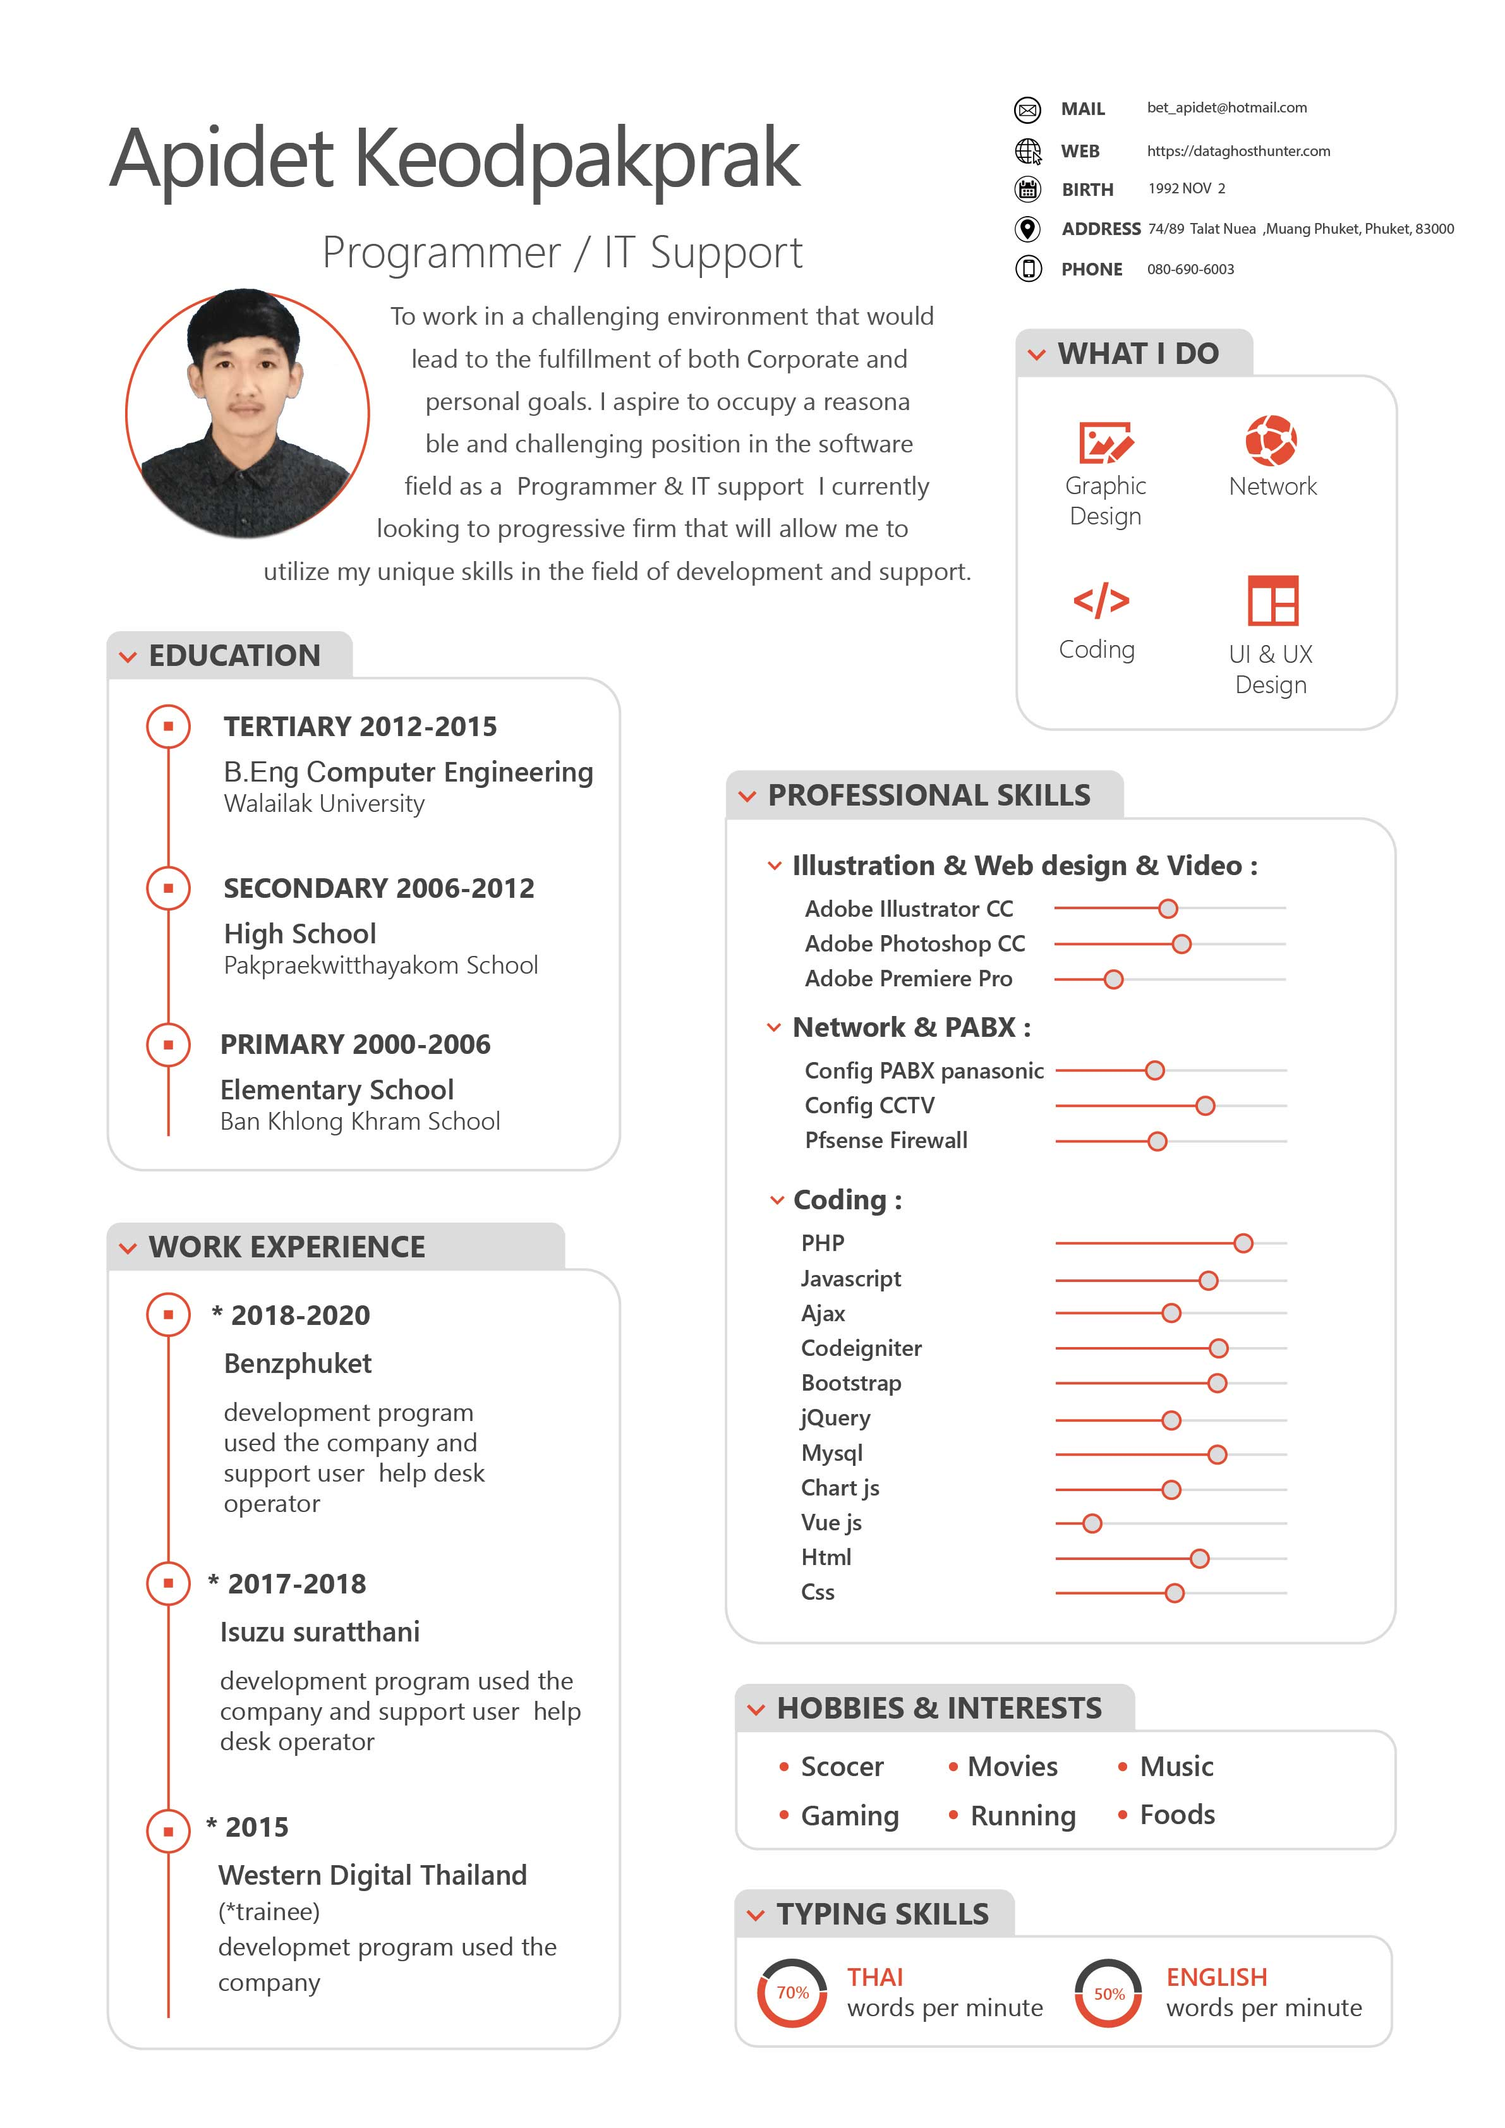
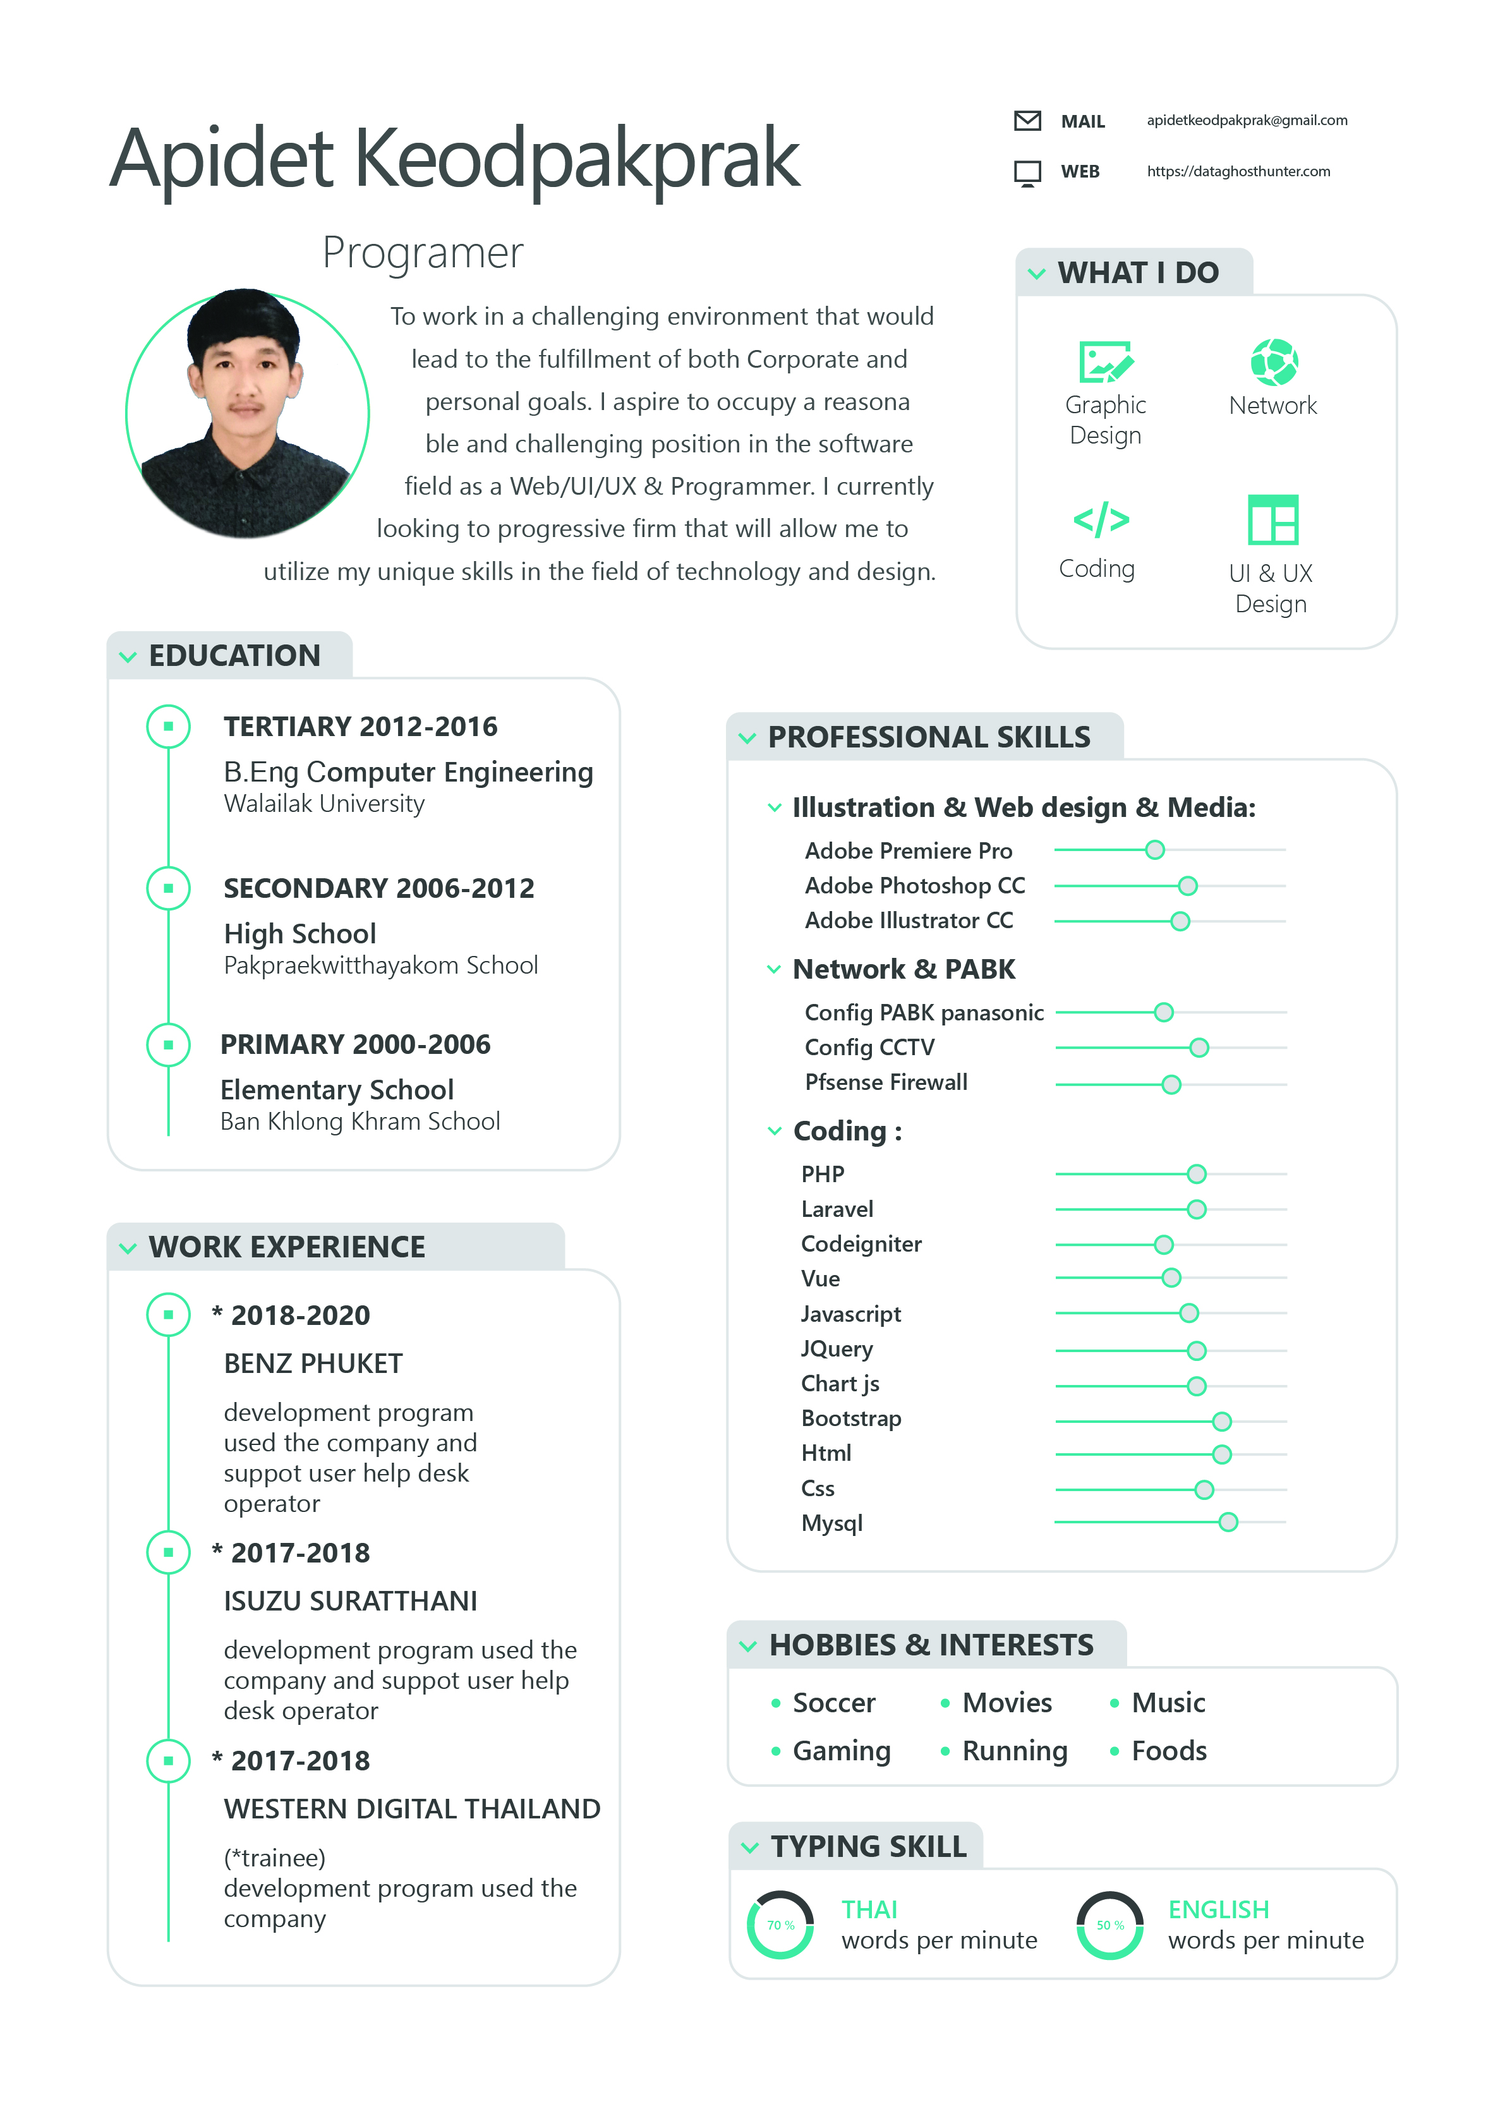
initial commit

diff --git a/public/js/app.js b/public/js/app.js
@@ -40053,9 +40053,9 @@ var staticRenderFns = [
           _vm._v("รายละเอียดด้านการพัฒนา")
         ]),
         _vm._v(" "),
-        _c("p", [_vm._v("1. Bootstrap 4")]),
+        _c("p", [_vm._v("1. Codeigniter")]),
         _vm._v(" "),
-        _c("p", [_vm._v("2. Codeigniter")]),
+        _c("p", [_vm._v("2. Bootstrap 4")]),
         _vm._v(" "),
         _c("p", [_vm._v("3. jQuery")]),
         _vm._v(" "),
@@ -40388,9 +40388,9 @@ var staticRenderFns = [
           _vm._v("รายละเอียดด้านการพัฒนา")
         ]),
         _vm._v(" "),
-        _c("p", [_vm._v("1. Bootstrap 4")]),
+        _c("p", [_vm._v("1. Codeigniter")]),
         _vm._v(" "),
-        _c("p", [_vm._v("2. Codeigniter")]),
+        _c("p", [_vm._v("2. Bootstrap 4")]),
         _vm._v(" "),
         _c("p", [_vm._v("3. jQuery")]),
         _vm._v(" "),
@@ -40687,28 +40687,26 @@ var staticRenderFns = [
         _c("h2", { staticClass: "mb-3 mt-5" }, [_vm._v("ความสามารถของระบบ")]),
         _vm._v(" "),
         _c("p", [
-          _vm._v("1. ระบบสร้างโปรเจค เก็บรายเเยกรายการ hardware/software")
+          _vm._v("1. ระบบ มีหน้าร้านขายออนไลน์ เเละระบบหลังร้านจัดการสินค้า")
         ]),
         _vm._v(" "),
-        _c("p", [
-          _vm._v("2. ระบบ ค้นหารายละเอียดโปรเจค เเละ  hardware/software ")
-        ]),
+        _c("p", [_vm._v("2. ระบบ มีการตัดสต๊อก เเละคืนสต๊อกสินค้า ")]),
         _vm._v(" "),
-        _c("p", [_vm._v("3. ระบบจัดการ  hardware/software")]),
+        _c("p", [_vm._v("3. ระบบ มีกานเเสดงสถานะสินค้า")]),
         _vm._v(" "),
-        _c("p", [_vm._v("4. ระบบจัดการ ลูกค้า")]),
+        _c("p", [_vm._v("4. ระบบ ติตาตการส่งสินค้า Tracking")]),
         _vm._v(" "),
-        _c("p", [_vm._v("5. ระบบจัดการผู้ใช้งาน")]),
+        _c("p", [_vm._v("5. ระบบ ตัดบัตรเครดิต")]),
         _vm._v(" "),
-        _c("p", [_vm._v("6. รายงานสรุป โปรเจค  hardware/software ")]),
+        _c("p", [_vm._v("6. รายงาน สรุปยอดขาย รายเดือน/ปี")]),
         _vm._v(" "),
         _c("h2", { staticClass: "mb-3 mt-5" }, [
           _vm._v("รายละเอียดด้านการพัฒนา")
         ]),
         _vm._v(" "),
-        _c("p", [_vm._v("1. Bootstrap 4")]),
+        _c("p", [_vm._v("1. Laravel+Vue")]),
         _vm._v(" "),
-        _c("p", [_vm._v("2. Laravel+Vue")]),
+        _c("p", [_vm._v("2. Bootstrap 4")]),
         _vm._v(" "),
         _c("p", [_vm._v("3. jQuery")]),
         _vm._v(" "),

diff --git a/resources/js/components/Shop.vue b/resources/js/components/Shop.vue
@@ -31,16 +31,16 @@
 
         <div class="ftco-animate">
           <h2 class="mb-3 mt-5">ความสามารถของระบบ</h2>
-          <p>1. ระบบสร้างโปรเจค เก็บรายเเยกรายการ hardware/software</p>
-          <p>2. ระบบ ค้นหารายละเอียดโปรเจค เเละ  hardware/software </p>
-          <p>3. ระบบจัดการ  hardware/software</p>
-          <p>4. ระบบจัดการ ลูกค้า</p>
-          <p>5. ระบบจัดการผู้ใช้งาน</p>
-          <p>6. รายงานสรุป โปรเจค  hardware/software </p>
+          <p>1. ระบบ มีหน้าร้านขายออนไลน์ เเละระบบหลังร้านจัดการสินค้า</p>
+          <p>2. ระบบ มีการตัดสต๊อก เเละคืนสต๊อกสินค้า </p>
+          <p>3. ระบบ มีกานเเสดงสถานะสินค้า</p>
+          <p>4. ระบบ ติตาตการส่งสินค้า Tracking</p>
+          <p>5. ระบบ ตัดบัตรเครดิต</p>
+          <p>6. รายงาน สรุปยอดขาย รายเดือน/ปี</p>
 
           <h2 class="mb-3 mt-5">รายละเอียดด้านการพัฒนา</h2>
-          <p>1. Bootstrap 4</p>
-          <p>2. Laravel+Vue</p>
+          <p>1. Laravel+Vue</p>
+          <p>2. Bootstrap 4</p>
           <p>3. jQuery</p>
           <p>4. javascript</p>
           <p>5. Mysql</p>

diff --git a/resources/js/components/Clocktime.vue b/resources/js/components/Clocktime.vue
@@ -41,8 +41,8 @@
           <p>7. ระบบจัดการ LIFT /SA/ช่าง</p>
 
           <h2 class="mb-3 mt-5">รายละเอียดด้านการพัฒนา</h2>
-          <p>1. Bootstrap 4</p>
-          <p>2. Codeigniter</p>
+          <p>1. Codeigniter</p>
+          <p>2. Bootstrap 4</p>
           <p>3. jQuery</p>
           <p>4. javascript</p>
           <p>5. Mysql</p>

diff --git a/resources/js/components/Savedata.vue b/resources/js/components/Savedata.vue
@@ -39,8 +39,8 @@
           <p>6. รายงานสรุป โปรเจค  hardware/software </p>
 
           <h2 class="mb-3 mt-5">รายละเอียดด้านการพัฒนา</h2>
-          <p>1. Bootstrap 4</p>
-          <p>2. Codeigniter</p>
+          <p>1. Codeigniter</p>
+          <p>2. Bootstrap 4</p>
           <p>3. jQuery</p>
           <p>4. javascript</p>
 

diff --git a/resources/views/partials/footer.blade.php b/resources/views/partials/footer.blade.php
@@ -4,7 +4,7 @@
             <div class="col-md">
                 <div class="ftco-footer-widget mb-4">
                     <h2 class="ftco-heading-2">Lets talk about</h2>
-                    <p>Far far away, behind the word mountains, far from the countries Vokalia and Consonantia, there live the blind texts.</p>
+                    <p>Don't stop when you are tired stop when you are done.</p>
                     <p><a href="#" class="btn btn-primary">Learn more</a></p>
                 </div>
             </div>
@@ -12,34 +12,23 @@
                 <div class="ftco-footer-widget mb-4 ml-md-4">
                     <h2 class="ftco-heading-2">Links</h2>
                     <ul class="list-unstyled">
-                        <li><a href="#"><span class="fa fa-chevron-right mr-2"></span>Home</a></li>
-                        <li><a href="#"><span class="fa fa-chevron-right mr-2"></span>About</a></li>
-                        <li><a href="#"><span class="fa fa-chevron-right mr-2"></span>Services</a></li>
-                        <li><a href="#"><span class="fa fa-chevron-right mr-2"></span>Projects</a></li>
-                        <li><a href="#"><span class="fa fa-chevron-right mr-2"></span>Contact</a></li>
+                        <li><a href="#home-section"><span class="fa fa-chevron-right mr-2"></span>Home</a></li>
+                        <li><a href="#about-section"><span class="fa fa-chevron-right mr-2"></span>About</a></li>
+                        <li><a href="#skills-section"><span class="fa fa-chevron-right mr-2"></span>Skill</a></li>
+                        <li><a href="#projects-section"><span class="fa fa-chevron-right mr-2"></span>Projects</a></li>
+                        <li><a href="#contact-section"><span class="fa fa-chevron-right mr-2"></span>Contact</a></li>
                     </ul>
                 </div>
             </div>
-            <div class="col-md">
-                <div class="ftco-footer-widget mb-4">
-                    <h2 class="ftco-heading-2">Services</h2>
-                    <ul class="list-unstyled">
-                        <li><a href="#"><span class="fa fa-chevron-right mr-2"></span>Web Design</a></li>
-                        <li><a href="#"><span class="fa fa-chevron-right mr-2"></span>Web Development</a></li>
-                        <li><a href="#"><span class="fa fa-chevron-right mr-2"></span>Business Strategy</a></li>
-                        <li><a href="#"><span class="fa fa-chevron-right mr-2"></span>Data Analysis</a></li>
-                        <li><a href="#"><span class="fa fa-chevron-right mr-2"></span>Graphic Design</a></li>
-                    </ul>
-                </div>
-            </div>
+
             <div class="col-md">
                 <div class="ftco-footer-widget mb-4">
                     <h2 class="ftco-heading-2">Have a Questions?</h2>
                     <div class="block-23 mb-3">
                         <ul>
-                            <li><span class="icon fa fa-map marker"></span><span class="text">203 Fake St. Mountain View, San Francisco, California, USA</span></li>
-                            <li><a href="#"><span class="icon fa fa-phone"></span><span class="text">+2 392 3929 210</span></a></li>
-                            <li><a href="#"><span class="icon fa fa-paper-plane pr-4"></span><span class="text">info@yourdomain.com</span></a></li>
+                            <li><span class="icon fa fa-map marker"></span><span class="text"> 186 M 8 Pak Prak,Don Sak, Surat Thani 84340</span></li>
+                            <li><a href="#"><span class="icon fa fa-phone"></span><span class="text">080-690-6003</span></a></li>
+                            <li><a href="#"><span class="icon fa fa-paper-plane pr-4"></span><span class="text">apidetkeodpakprak@gmail.com</span></a></li>
                         </ul>
                     </div>
                     <ul class="ftco-footer-social list-unstyled mt-2">
@@ -60,4 +49,3 @@
             </div>
         </div>
     </footer>
-  

diff --git a/resources/views/frontend/contact.blade.php b/resources/views/frontend/contact.blade.php
@@ -4,7 +4,7 @@
             <div class="col-md-7 heading-section text-center ftco-animate">
                 <span class="subheading">Contact us</span>
                 <h2 class="mb-4">Have a Project?</h2>
-                <p>Far far away, behind the word mountains, far from the countries Vokalia and Consonantia</p>
+                <p>You can see contact me</p>
             </div>
         </div>
 
@@ -49,7 +49,7 @@
                             <span class="fa fa-map-marker"></span>
                         </div>
                         <div class="text">
-                            <p><span>Address:</span> 198 West 21th Street, Suite 721 New York NY 10016</p>
+                            <p><span>Address:</span> 186 M 8 Pak Prak,Don Sak, Surat Thani 84340</p>
                         </div>
                     </div>
                     <div class="dbox w-100 d-flex">
@@ -57,7 +57,7 @@
                             <span class="fa fa-phone"></span>
                         </div>
                         <div class="text">
-                            <p><span>Phone:</span> <a href="tel://1234567920">+ 1235 2355 98</a></p>
+                            <p><span>Phone:</span> <a href="tel://1234567920">080-690-6003</a></p>
                         </div>
                     </div>
                     <div class="dbox w-100 d-flex">
@@ -65,7 +65,7 @@
                             <span class="fa fa-paper-plane"></span>
                         </div>
                         <div class="text">
-                            <p><span>Email:</span> <a href="mailto:info@yoursite.com">info@yoursite.com</a></p>
+                            <p><span>Email:</span> <a href="mailto:info@yoursite.com">apidetkeodpakprak@gmail.com</a></p>
                         </div>
                     </div>
                     <div class="dbox w-100 d-flex">
@@ -73,7 +73,7 @@
                             <span class="fa fa-globe"></span>
                         </div>
                         <div class="text">
-                            <p><span>Website</span> <a href="#">yoursite.com</a></p>
+                            <p><span>Website</span> <a href="https://dataghosthunter.com/">www.dataghosthunter.com</a></p>
                         </div>
                     </div>
                 </div>

diff --git a/resources/views/frontend/about.blade.php b/resources/views/frontend/about.blade.php
@@ -14,7 +14,12 @@
                         <div class="col-md-12 heading-section ftco-animate">
                             <span class="subheading">My Intro</span>
                             <h2 class="mb-4" style="font-size: 34px; text-transform: capitalize;">About Me</h2>
-                            <p>A small river named Duden flows by their place and supplies it with the necessary regelialia. It is a paradisematic country, in which roasted parts of sentences fly into your mouth.</p>
+                            <p>
+                                To work in a challenging environment that would lead to the fulfillment of both Corporate and  personal goals.
+                                I aspire to occupy a reasona	 ble and challenging position in the software field as a Web/UI/UX & Programmer. I currently
+                                looking to progressive firm that will allow me to
+                                  utilize my unique skills in the field of technology and design.
+                            </p>
 
                             <ul class="about-info mt-4 px-md-0 px-2">
                                 <li class="d-flex"><span>Name:</span> <span>Apidet Keodpakprak</span></li>

diff --git a/resources/views/frontend/skills.blade.php b/resources/views/frontend/skills.blade.php
@@ -4,7 +4,7 @@
             <div class="col-md-12 heading-section text-center ftco-animate">
                 <span class="subheading">Skills</span>
                 <h2 class="mb-4">My Skills</h2>
-                <p>Far far away, behind the word mountains, far from the countries Vokalia and Consonantia</p>
+                <p>SKILL Language Programming Introduction</p>
             </div>
         </div>
         <div class="row progress-circle mb-5">

diff --git a/resources/views/frontend/projects.blade.php b/resources/views/frontend/projects.blade.php
@@ -4,7 +4,7 @@
             <div class="col-md-12 heading-section text-center ftco-animate">
                 <span class="subheading">Accomplishments</span>
                 <h2 class="mb-4">Our Projects</h2>
-                <p>Far far away, behind the word mountains, far from the countries Vokalia and Consonantia</p>
+                <p>You can see the work I add to my Projects</p>
             </div>
         </div>
         <div class="row">
